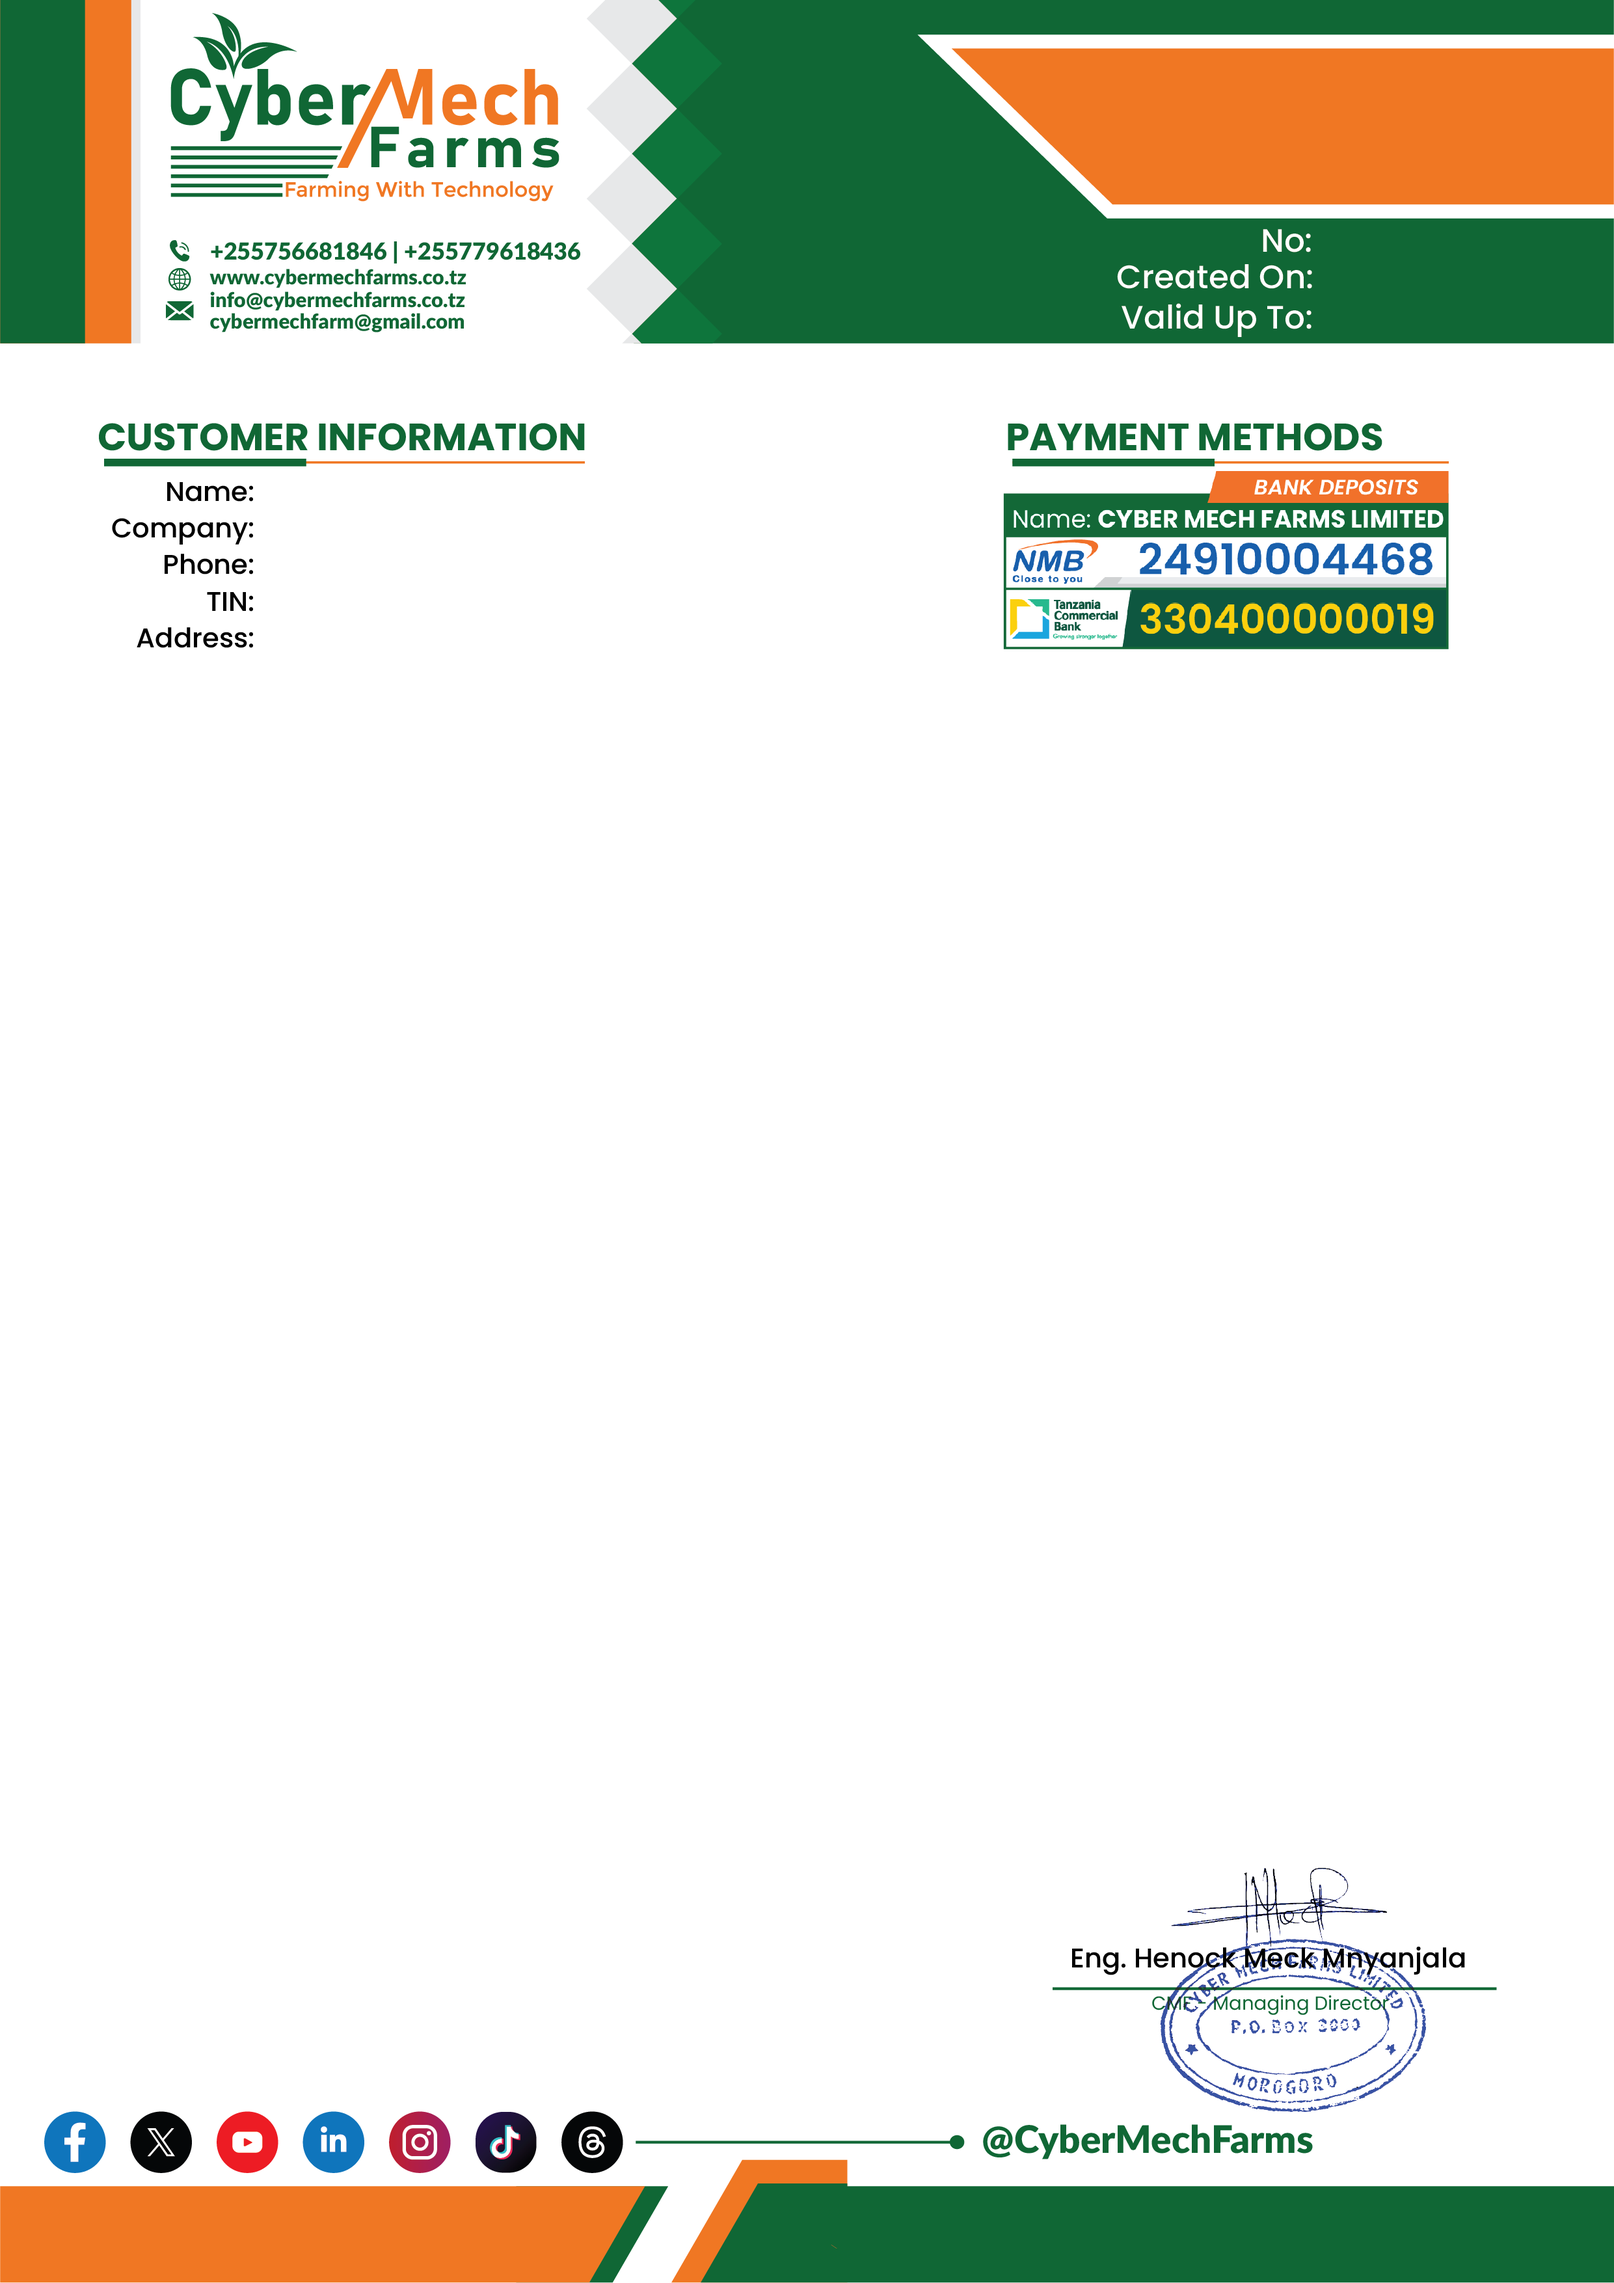
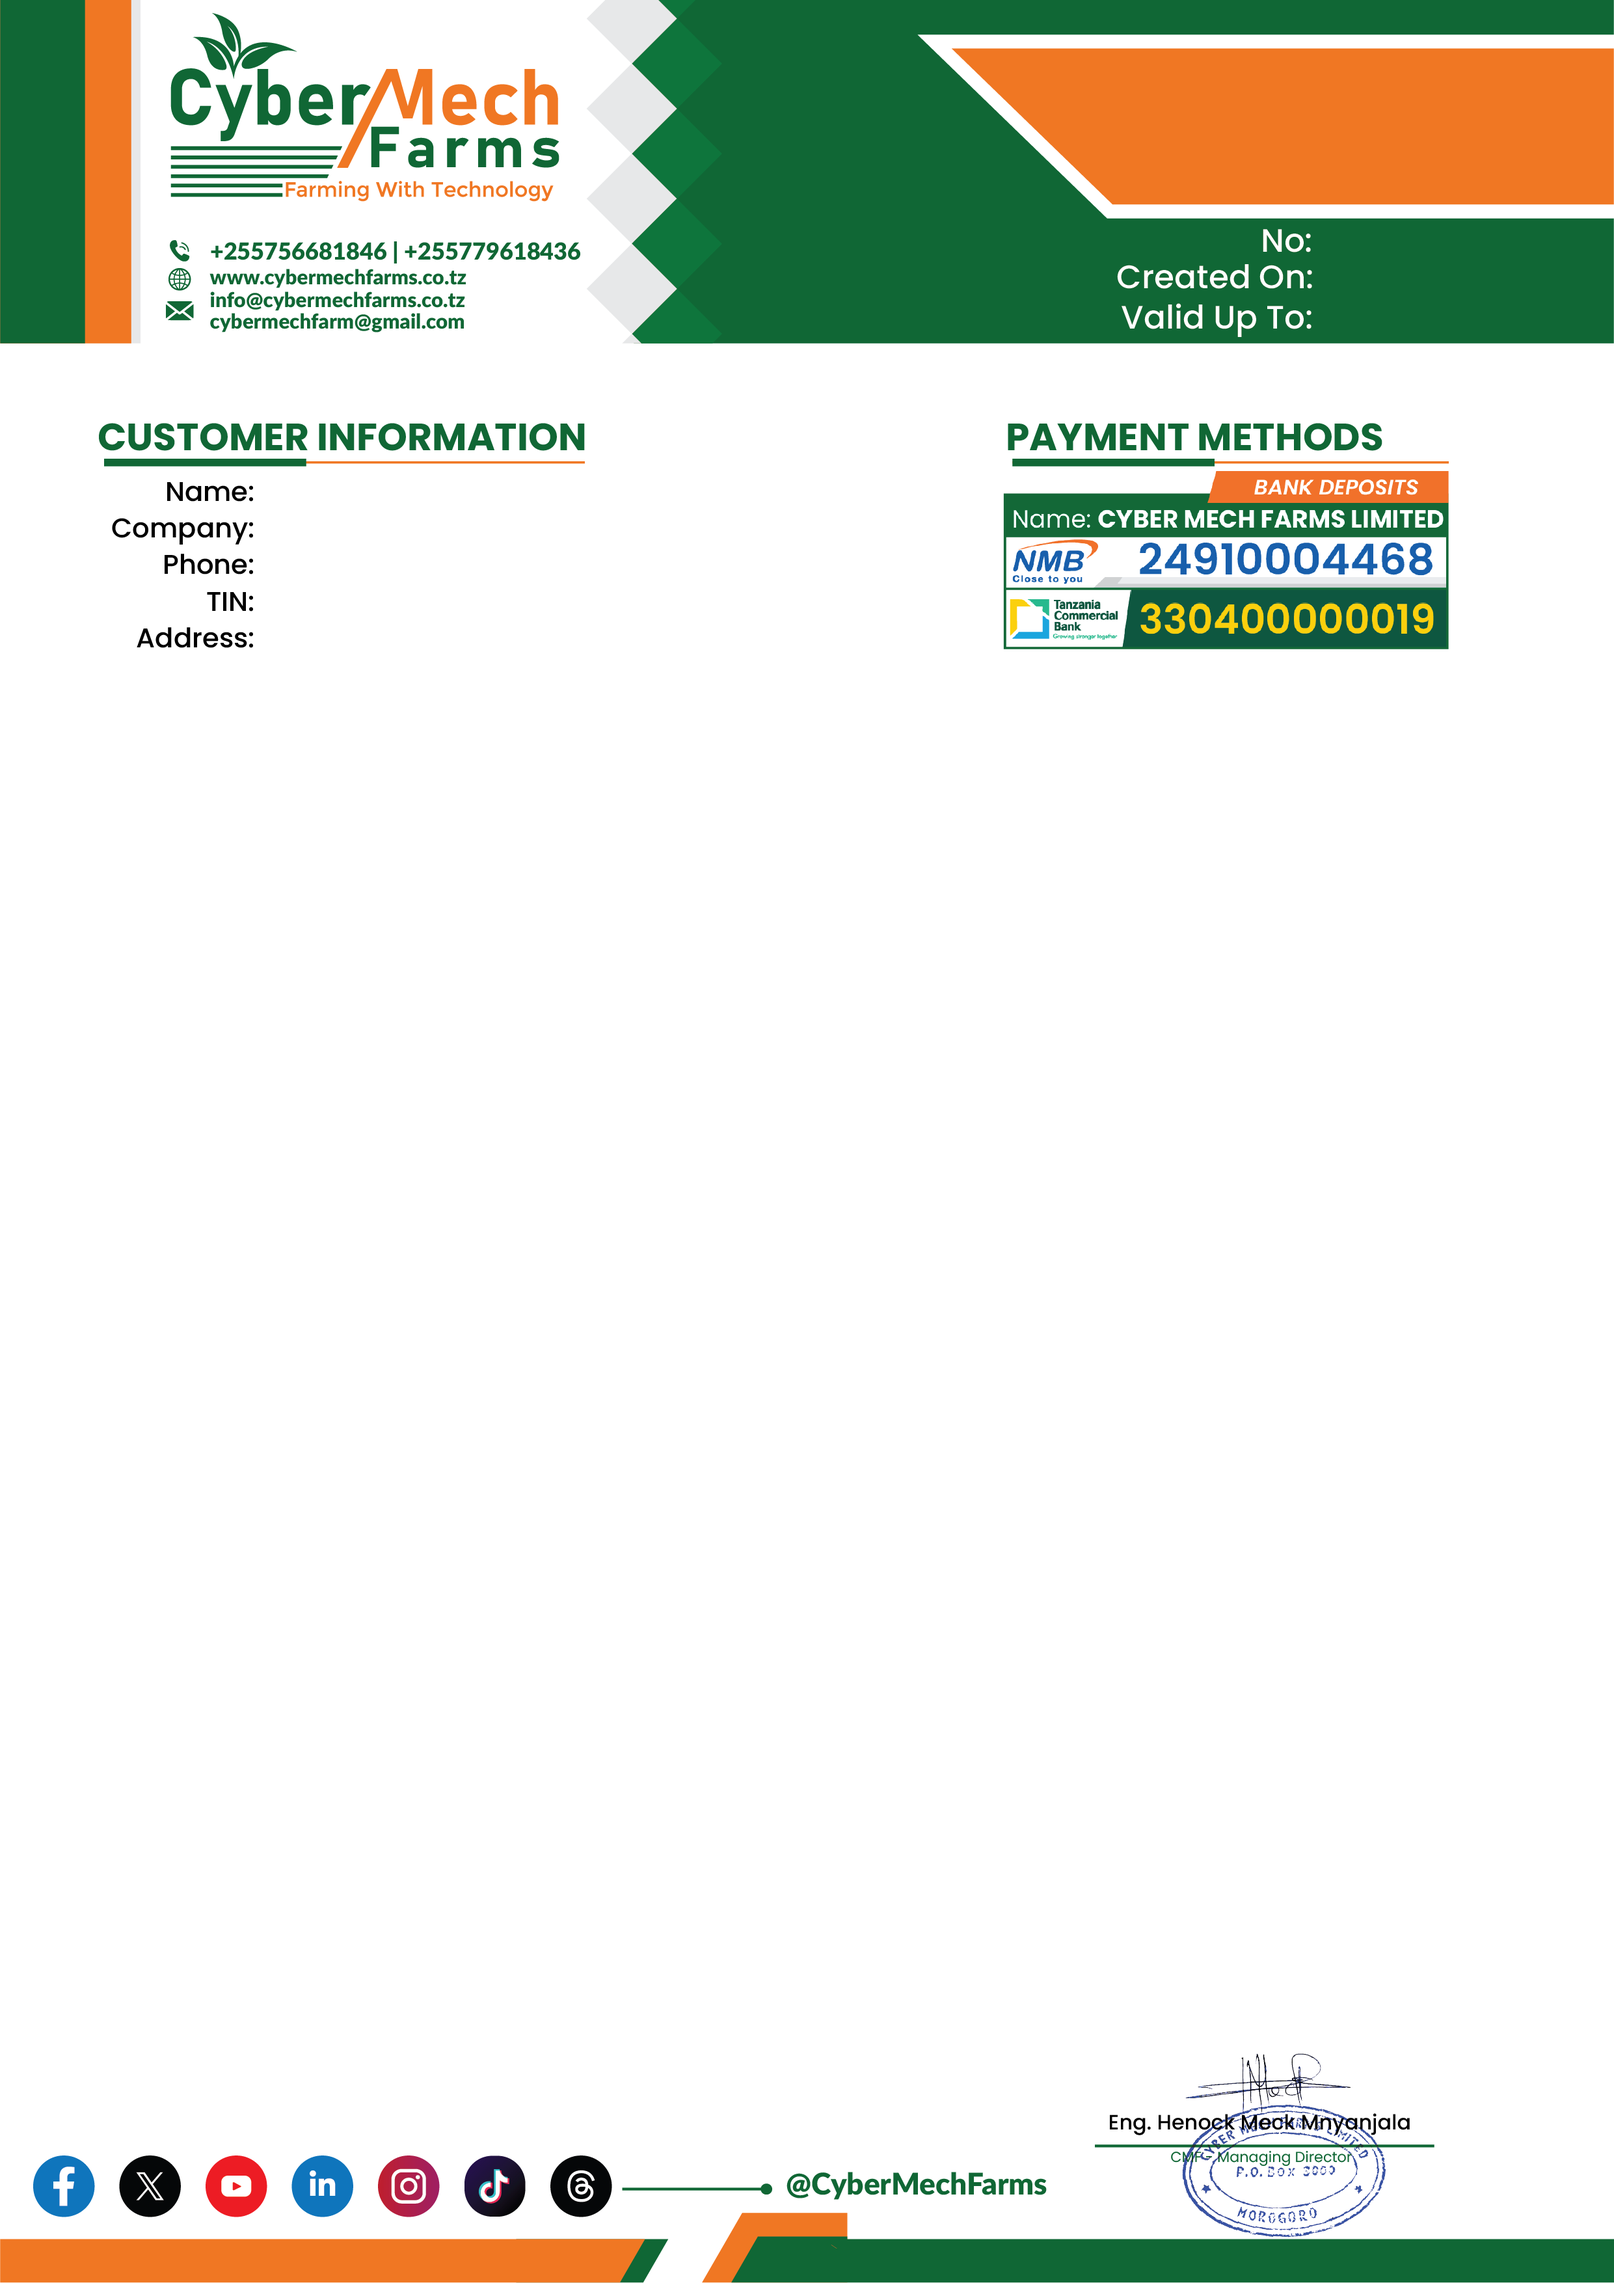
templat fix

Changed region(s): [[0.0, 0.8076, 1.0, 1.0]]

diff --git a/quotations/templates/quotations/quotation_pdf.html b/quotations/templates/quotations/quotation_pdf.html
@@ -75,7 +75,7 @@ body {
     margin:
         70mm
         14mm
-        55mm
+        30mm
         14mm;
 
 }
@@ -96,7 +96,7 @@ body {
     margin:
         15mm
         14mm
-        15mm
+        30mm
         14mm;
 
 }
@@ -107,7 +107,7 @@ body {
     margin:
         70mm
         14mm
-        15mm
+        30mm
         14mm;
 
 }
@@ -118,7 +118,7 @@ body {
     margin:
         15mm
         14mm
-        55mm
+        30mm
         14mm;
 
 }
@@ -297,21 +297,7 @@ body {
 ========================================= */
 
 
-.terms {
 
-    position: absolute;
-
-    left: 0;
-
-    right: 0;
-
-    bottom: -30mm;
-
-    break-inside: avoid;
-
-    page-break-inside: avoid;
-
-}
 
 
 .terms-title {
@@ -654,8 +640,6 @@ body {
 
 
 </div>
-
-
 </body>
 
 </html>
